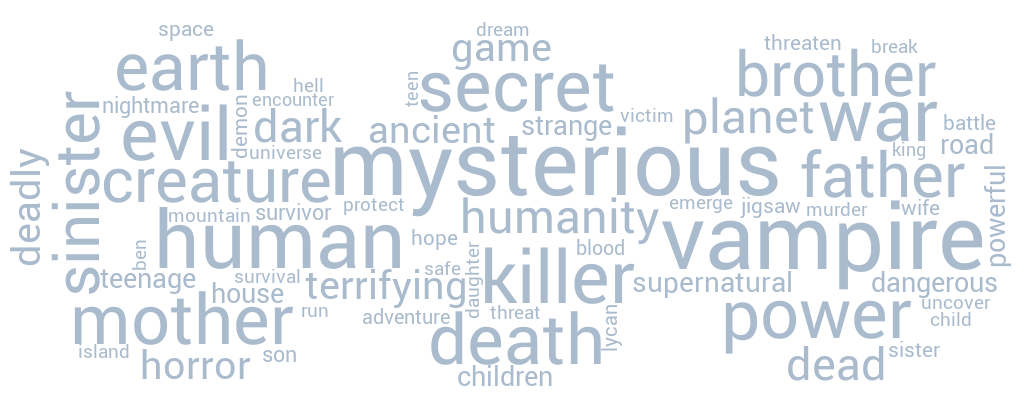
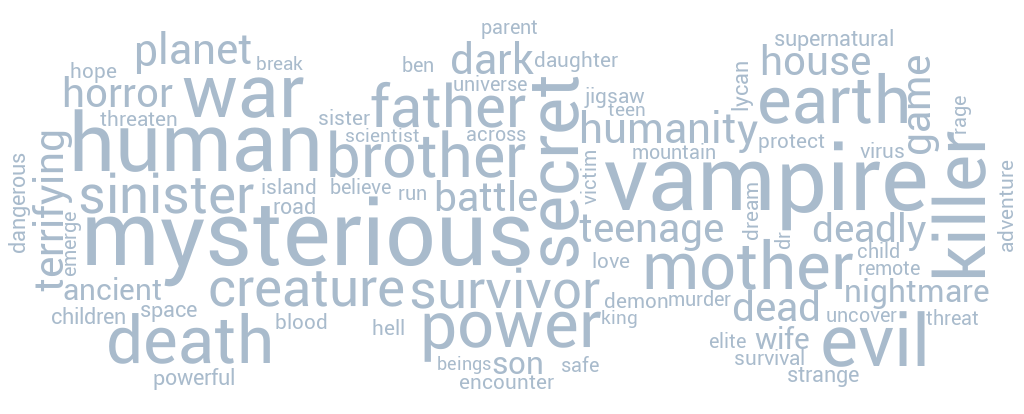
Adiciona mais estilizaçõe e traduz mensagem de tratamento de erro

diff --git a/app/static/css/likedDisliked.css b/app/static/css/likedDisliked.css
@@ -1,0 +1,45 @@
+:root {
+    --primary-color: #00d94f;
+    --secondary-color: #3fbcf2;
+    --accent-color: #fc7e00;
+    --background-gradient: linear-gradient(180deg, #1F2A33 0%, #1A232B 13.49%, #0B1116 29.75%);
+    --text-primary: #edeff1;
+    --text-secondary: #A9BBCC;
+    --background-primary: #202830;
+    --background-secondary: #14181c;
+
+    /*Fontes*/
+    --graphik: 'Graphik', sans-serif;
+    --libre-caslon: "Libre Caslon Text", sans-serif;
+    --yantramanav: "Yantramanav", sans-serif;
+    --geologica: "Geologica", sans-serif;
+}
+
+.liked-disliked-section {
+    display: flex;
+    gap: 0.5rem;
+}
+
+.liked-dislike-section > div {
+    display: flex;
+    flex-direction: column;
+    align-items: center;
+}
+
+.taste-name {
+    text-transform: uppercase;
+    font-family: var(--yantramanav);
+}
+
+.liked-disliked-poster {
+    border-radius: 1rem;
+    width: 15rem;
+}
+
+.bad_rating {
+   border: 0.4rem solid #de1643;
+}
+
+.good_rating {
+    border: 0.4rem solid #23ee70;
+}

diff --git a/app/routes.py b/app/routes.py
@@ -41,7 +41,7 @@ def process_data():
 
         return {"status": "success"}, 200
     except Exception as e:
-        print(f"Erro no processamento: {e}")
+        print(f"Data processing error: {e}")
         return {"status": "error", "message": str(e)}, 500
 
 # -----------------------------------------------------------------------------------------------------------------------
@@ -69,16 +69,12 @@ def profile_route():
 def current_profile():
     try:
         context = get_current_profile_context()
-
-
     except Exception as e:
         print(f"Data processing error: {e}")
         return redirect(url_for("main.main_route"))
 
-
     return render_template("currentProfile.html",
                            context=context)
-
 
 # -----------------------------------------------------------------------------------------------------------------------
 
